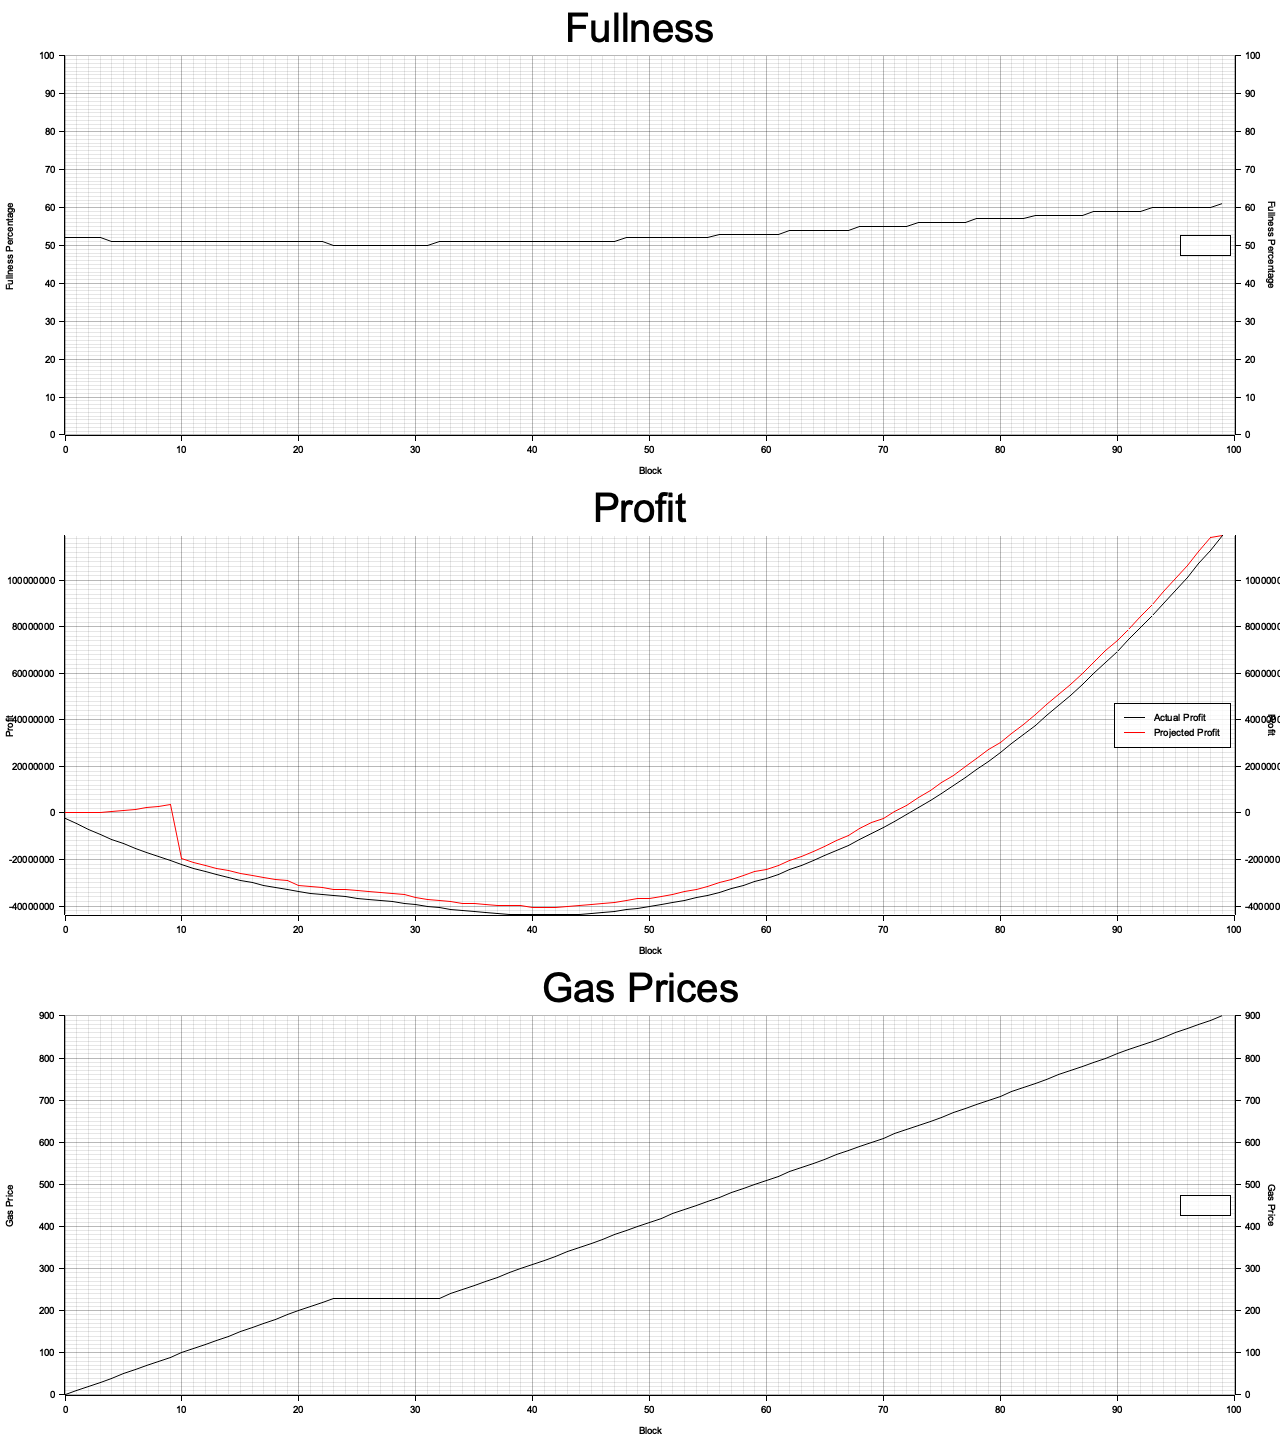
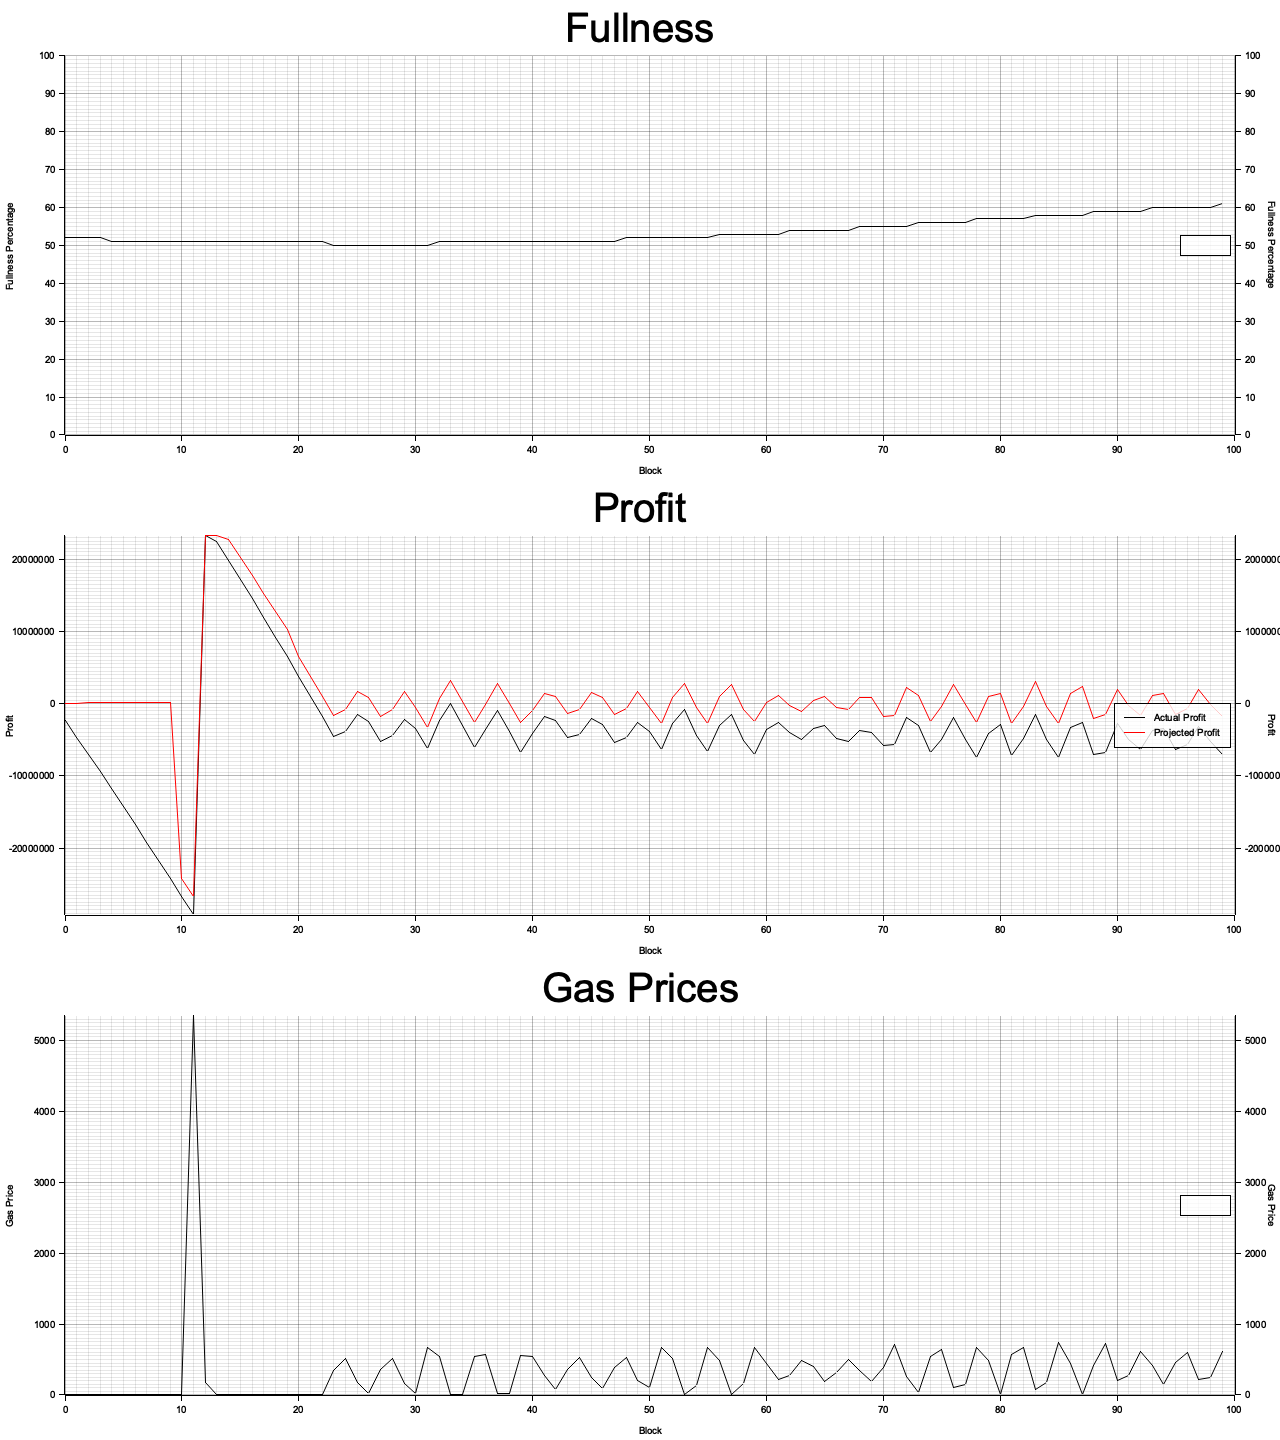
Add some naive profit corrections

Changed region(s): [[0.0, 0.375, 1.0, 0.6562], [0.0312, 0.6875, 1.0, 0.9688]]

diff --git a/crates/gas-price-algorithm/src/tests/update_l2_block_Data_tests.rs b/crates/gas-price-algorithm/src/tests/update_l2_block_Data_tests.rs
@@ -112,7 +112,7 @@ fn update_l2_block_data__if_below_capacity_threshold_decrease_price() {
     updater.update_l2_block_data(height, fullness, block_bytes).unwrap();
 
     // then
-    let expected = starting_gas_price;
+    let expected = starting_gas_price - increase_amount;
     let actual = updater.gas_price();
     assert_eq!(actual, expected);
 }
@@ -137,4 +137,66 @@ fn update_l2_block_data__updates_the_total_reward_value() {
     let expected = gas_used * starting_gas_price;
     let actual = updater.total_rewards;
     assert_eq!(actual, expected);
+}
+
+#[test]
+fn update_l2_block_data__positive_profit_decreases_gas_price() {
+    // given
+    let starting_gas_price = 100;
+    let starting_reward = 1000;
+    let starting_cost = 1000;
+    let latest_gas_per_byte = 1;
+    let da_gas_price_increase_amount = 10;
+    let mut updater = UpdaterBuilder::new()
+        .with_starting_gas_price(starting_gas_price)
+        .with_da_gas_price_increase_amount(da_gas_price_increase_amount)
+        .with_total_rewards(starting_reward)
+        .with_known_total_cost(starting_cost)
+        .with_da_cost_per_byte(latest_gas_per_byte)
+        .build();
+
+    let height = 1;
+    let gas_used = 50;
+    let fullness = (gas_used, 100);
+    let block_bytes = 1000;
+
+    // 1 * 1000 < 50 * 100 (1000 < 5000)
+    // when
+    updater.update_l2_block_data(height, fullness, block_bytes).unwrap();
+
+    // then
+    let expected = starting_gas_price - da_gas_price_increase_amount;
+    let actual = updater.gas_price();
+    assert_eq!(expected, actual);
+}
+
+#[test]
+fn update_l2_block_data__negative_profit_increases_gas_price() {
+    // given
+    let starting_gas_price = 100;
+    let starting_reward = 1000;
+    let starting_cost = 1000;
+    let latest_gas_per_byte = 10;
+    let da_gas_price_increase_amount = 10;
+    let mut updater = UpdaterBuilder::new()
+        .with_starting_gas_price(starting_gas_price)
+        .with_da_gas_price_increase_amount(da_gas_price_increase_amount)
+        .with_total_rewards(starting_reward)
+        .with_known_total_cost(starting_cost)
+        .with_da_cost_per_byte(latest_gas_per_byte)
+        .build();
+
+    let height = 1;
+    let gas_used = 50;
+    let fullness = (gas_used, 100);
+    let block_bytes = 1000;
+
+    // 10 * 1000 > 50 * 100 (10_000 > 5_000)
+    // when
+    updater.update_l2_block_data(height, fullness, block_bytes).unwrap();
+
+    // then
+    let expected = starting_gas_price + da_gas_price_increase_amount;
+    let actual = updater.gas_price();
+    assert_eq!(expected, actual);
 }

diff --git a/crates/gas-price-algorithm/src/tests.rs b/crates/gas-price-algorithm/src/tests.rs
@@ -3,9 +3,11 @@ use super::*;
 
 struct UpdaterBuilder {
     starting_gas_price: u64,
+    l2_comp_gas_price_increase_amount: u64,
+    da_gas_price_increase_amount: u64,
+
     l2_block_height: u32,
     l2_block_capacity_threshold: u64,
-    l2_comp_gas_price_increase_amount: u64,
     total_rewards: u64,
     da_recorded_block_height: u32,
     da_cost_per_byte: u64,
@@ -18,9 +20,10 @@ impl UpdaterBuilder {
     fn new() -> Self {
         Self {
             starting_gas_price: 0,
+            l2_comp_gas_price_increase_amount: 0,
+            da_gas_price_increase_amount: 0,
             l2_block_height: 0,
             l2_block_capacity_threshold: 50,
-            l2_comp_gas_price_increase_amount: 0,
             total_rewards: 0,
             da_recorded_block_height: 0,
             da_cost_per_byte: 0,
@@ -35,6 +38,16 @@ impl UpdaterBuilder {
         self
     }
 
+    fn with_l2_comp_gas_price_increase_amount(mut self, l2_comp_gas_price_increase_amount: u64) -> Self {
+        self.l2_comp_gas_price_increase_amount = l2_comp_gas_price_increase_amount;
+        self
+    }
+
+    fn with_da_gas_price_increase_amount(mut self, da_gas_price_increase_amount: u64) -> Self {
+        self.da_gas_price_increase_amount = da_gas_price_increase_amount;
+        self
+    }
+
     fn with_l2_block_height(mut self, starting_block: u32) -> Self {
         self.l2_block_height = starting_block;
         self
@@ -45,8 +58,9 @@ impl UpdaterBuilder {
         self
     }
 
-    fn with_l2_comp_gas_price_increase_amount(mut self, l2_comp_gas_price_increase_amount: u64) -> Self {
-        self.l2_comp_gas_price_increase_amount = l2_comp_gas_price_increase_amount;
+
+    fn with_total_rewards(mut self, total_rewards: u64) -> Self {
+        self.total_rewards = total_rewards;
         self
     }
 
@@ -79,9 +93,10 @@ impl UpdaterBuilder {
     fn build(self) -> AlgorithmUpdaterV1 {
         AlgorithmUpdaterV1 {
             gas_price: self.starting_gas_price,
+            exec_gas_price_increase_amount: self.l2_comp_gas_price_increase_amount,
+            da_gas_price_denominator:  self.da_gas_price_increase_amount,
             l2_block_height: self.l2_block_height,
             l2_block_fullness_threshold_percent: self.l2_block_capacity_threshold,
-            exec_gas_price_increase_amount: self.l2_comp_gas_price_increase_amount,
             total_rewards: self.total_rewards,
             da_recorded_block_height: self.da_recorded_block_height,
             latest_da_cost_per_byte: self.da_cost_per_byte,

diff --git a/crates/gas-price-algorithm/src/lib.rs b/crates/gas-price-algorithm/src/lib.rs
@@ -52,11 +52,12 @@ pub struct AlgorithmV1 {
 // TODO: Add contstructor
 pub struct AlgorithmUpdaterV1 {
     pub gas_price: u64,
+    pub exec_gas_price_increase_amount: u64,
+    pub da_gas_price_denominator: u64,
 
     // L2
     pub l2_block_height: u32,
     pub l2_block_fullness_threshold_percent: u64,
-    pub exec_gas_price_increase_amount: u64,
     pub total_rewards: u64,
     // total_reward: u64,
     // actual_total_cost: u64,
@@ -118,8 +119,22 @@ impl AlgorithmUpdaterV1 {
             let reward = fullness.0 * self.gas_price;
             self.total_rewards += reward;
             let fullness_percent = fullness.0 * 100 / fullness.1;
+            // EXEC PORTION
             if fullness_percent > self.l2_block_fullness_threshold_percent {
                 self.gas_price += self.exec_gas_price_increase_amount;
+            } else if fullness_percent < self.l2_block_fullness_threshold_percent {
+                self.gas_price -= self.exec_gas_price_increase_amount;
+            }
+            // DA PORTION
+            let projected_profit = self.total_rewards as i64 - self.projected_total_cost as i64;
+            if projected_profit > 0 {
+                let change = projected_profit as u64 / self.da_gas_price_denominator;
+                let new = self.gas_price.saturating_sub(change);
+                self.gas_price = new;
+            } else if projected_profit < 0 {
+                let change = projected_profit.abs() as u64 / self.da_gas_price_denominator;
+                let new = self.gas_price.saturating_add(change);
+                self.gas_price = new;
             }
             Ok(())
         }

diff --git a/crates/gas-price-algorithm/src/main.rs b/crates/gas-price-algorithm/src/main.rs
@@ -171,6 +171,7 @@ fn main() {
     let starting_gas_price = 0;
     let fullness_threshold = 50;
     let exec_gas_price_increase_amount = 10;
+    let da_gas_price_denominator = 5_000;
     let size = 100;
     let da_recoring_rate = 10;
     let capacity = 20_000;
@@ -212,6 +213,7 @@ fn main() {
         projected_total_cost: 0,
         latest_known_total_cost: 0,
         unrecorded_blocks: vec![],
+        da_gas_price_denominator,
     };
 
     let mut gas_prices = vec![];

diff --git a/crates/gas-price-algorithm/src/tests/update_da_record_data_tests.rs b/crates/gas-price-algorithm/src/tests/update_da_record_data_tests.rs
@@ -192,3 +192,4 @@ fn update__da_block_updates_projected_total_cost_with_known_and_guesses_on_top()
     assert_eq!(actual, expected);
 }
 
+
